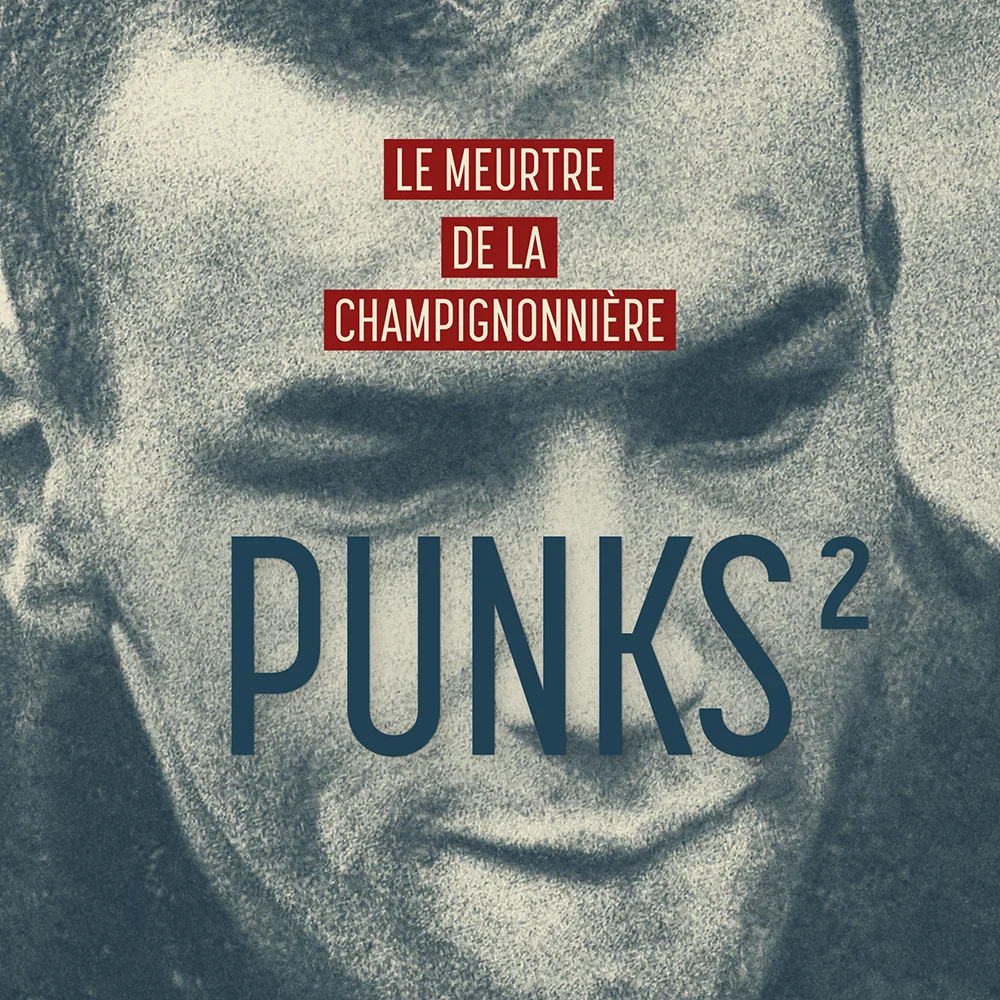
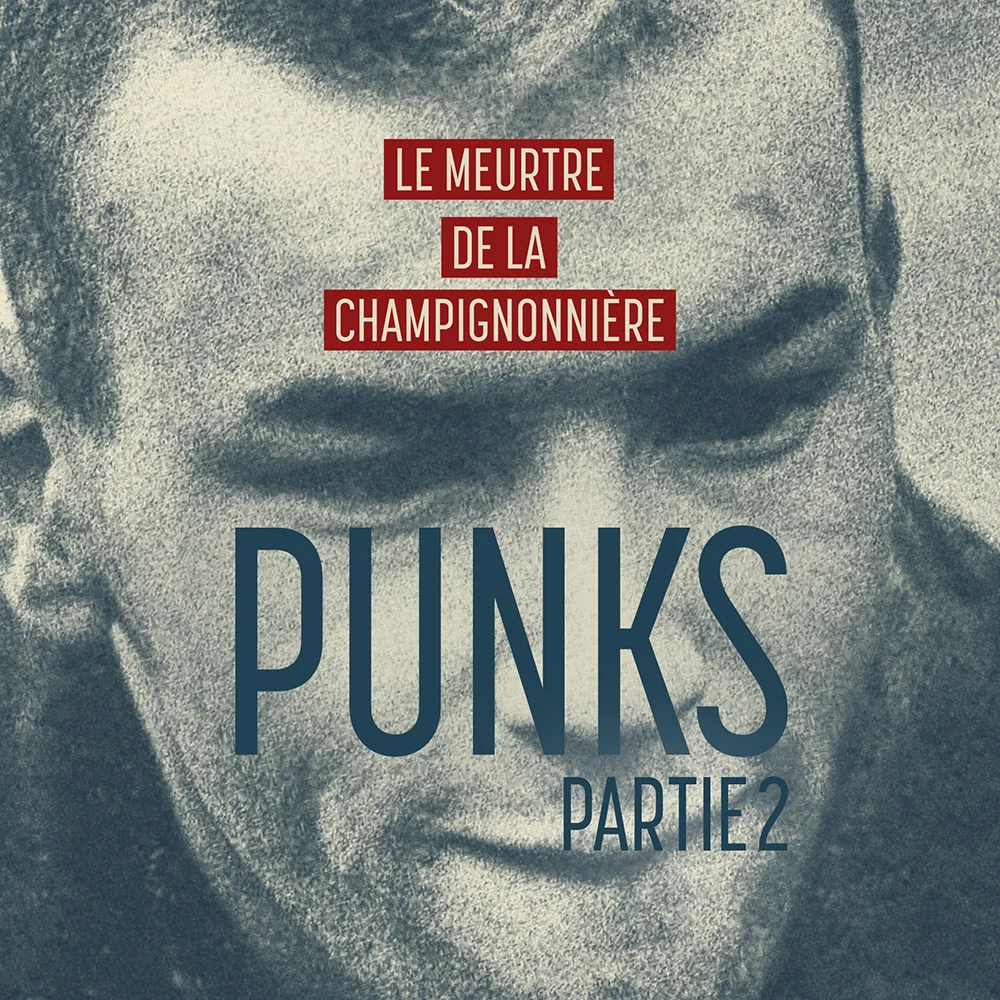
updates

diff --git a/cvh/index.html b/cvh/index.html
@@ -51,11 +51,17 @@
             <div class="images-container">
                <h2 class="dont-reveal">Generic Main Cover</h2>
                <picture>
-                  <source srcset="../img/cvh/drafts/Generic_rtbf_01.01.webp" />
-                  <source srcset="../img/cvh/drafts/Generic_rtbf_01.01.jpg" />
-                  <img class="dont-reveal" src="../img/cvh/drafts/Generic_rtbf_01.01.jpg" alt="Generic-02" width="800" height="800" loading="lazy">
+                  <source srcset="../img/cvh/drafts/Generic_rtbf_01.012.webp" />
+                  <source srcset="../img/cvh/drafts/Generic_rtbf_01.012.jpg" />
+                  <img class="dont-reveal" src="../img/cvh/drafts/Generic_rtbf_01.012.jpg" alt="Generic-02" width="800" height="800" loading="">
                </picture>
-
+               <p>v.1</p>
+               <picture>
+                  <source srcset="../img/cvh/drafts/Generic_rtbf_01.02.webp" />
+                  <source srcset="../img/cvh/drafts/Generic_rtbf_01.02.jpg" />
+                  <img class="dont-reveal" src="../img/cvh/drafts/Generic_rtbf_01.02.jpg" alt="Generic-02" width="800" height="800" loading="">
+               </picture>
+               <p>v.2</p>
 
                <h2 class="space">Episodes Covers</h2>
                <p>Episode 1: "Christine"</p>
@@ -96,23 +102,20 @@
                   <img class="" src="../img/cvh/drafts/Réseaux_1.1.jpg" alt="Punks" width="800" height="800" loading="lazy">
                </picture>
                <p class="">Episode 7: "Revenir au début"</p>
+               <p>Still Needed</p>
+               <p class="full-width">Episode 8: "Et après"</p>
                <picture>
-                  <source srcset="../img/cvh/drafts/retour1.webp" />
-                  <source srcset="../img/cvh/drafts/retour1.jpg" />
-                  <img class="" src="../img/cvh/drafts/retour1.jpg" alt="Punks" width="800" height="800" loading="lazy">
+                  <source srcset="../img/cvh/drafts/et-apres1.webp" />
+                  <source srcset="../img/cvh/drafts/et-apres1.jpg" />
+                  <img class="" src="../img/cvh/drafts/et-apres1.jpg" alt="Punks" width="800" height="800" loading="lazy">
                </picture>
-               <p class="full_width dont-reveal"></p>
-               <p class="">Episode 8: "Et après"</p>
+               <i>v.1</i>
                <picture>
-                  <source srcset="../img/cvh/drafts/et_apres1.webp" />
-                  <source srcset="../img/cvh/drafts/et_apres1.jpg" />
-                  <img class="" src="../img/cvh/drafts/et_apres1.jpg" alt="Punks" width="800" height="800" loading="lazy">
+                  <source srcset="../img/cvh/drafts/et-apres2.webp" />
+                  <source srcset="../img/cvh/drafts/et-apres2.jpg" />
+                  <img class="" src="../img/cvh/drafts/et-apres2.jpg" alt="Punks" width="800" height="800" loading="lazy">
                </picture>
-               <picture>
-                  <source srcset="../img/cvh/drafts/et_apres2.webp" />
-                  <source srcset="../img/cvh/drafts/et_apres2.jpg" />
-                  <img class="" src="../img/cvh/drafts/et_apres2.jpg" alt="Punks" width="800" height="800" loading="lazy">
-               </picture>
+               <i>v.2</i>
             </div>
          </section>
    </main>

diff --git a/css/style.css b/css/style.css
@@ -197,6 +197,11 @@ li {
    list-style: none;
 }
 
+.full-width {
+	width: 100%;
+	margin-top: 2em;
+}
+
 /*       Lang Switcher - START
  ___________________________________________*/
 
